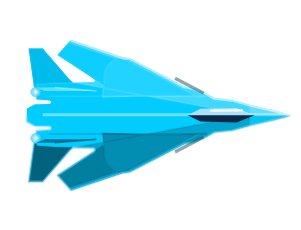
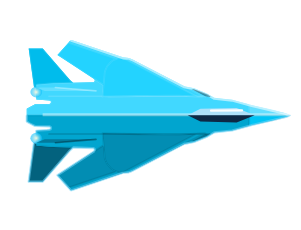
flytunl.ch ship chips and hangar portraits re-rendered with the fixed top-down hull

diff --git a/flytunl-site/home.src.html b/flytunl-site/home.src.html
@@ -811,14 +811,14 @@
     </div>
     <div class="shipsel">
       <div class="ship-chips" role="tablist" aria-label="Eight Ships, Eight Feels">
-        <button class="ship-chip" type="button" role="tab" id="chip-PEARL" aria-controls="panel-PEARL" aria-selected="true" style="--ship-color:#e8eeff"><svg viewBox="-1.109 -0.745 2.549 1.49" aria-hidden="true"><path d="M1.4 0 1.361 -0.018 1.052 -0.09 0.857 -0.144 0.689 -0.162 0.62 -0.204 0.5 -0.252 0.407 -0.27 -0.082 -0.525 -0.112 -0.537 -0.166 -0.54 -0.649 -0.705 -0.655 -0.705 -0.781 -0.564 -0.439 -0.342 -0.43 -0.327 -0.433 -0.315 -0.445 -0.309 -0.631 -0.303 -0.664 -0.33 -0.919 -0.624 -1.051 -0.624 -1.003 -0.27 -1 -0.261 -0.985 -0.258 -0.979 -0.246 -0.979 -0.147 -0.856 -0.138 -0.844 -0.132 -0.841 -0.12 -0.844 -0.111 -0.856 -0.105 -0.991 -0.102 -1.021 -0.087 -1.069 -0.06 -1.069 0 -1.069 0.06 -1.021 0.087 -0.991 0.102 -0.856 0.105 -0.844 0.111 -0.841 0.12 -0.844 0.132 -0.856 0.138 -0.979 0.147 -0.979 0.246 -0.985 0.258 -1 0.261 -1.003 0.27 -1.051 0.624 -0.919 0.624 -0.664 0.33 -0.631 0.303 -0.445 0.309 -0.433 0.315 -0.43 0.327 -0.439 0.342 -0.781 0.564 -0.655 0.705 -0.649 0.705 -0.166 0.54 -0.112 0.537 -0.082 0.525 0.407 0.27 0.5 0.252 0.62 0.204 0.689 0.162 0.857 0.144 1.052 0.09 1.361 0.018Z"/></svg><span>PEARL</span></button>
-        <button class="ship-chip" type="button" role="tab" id="chip-AMBER" aria-controls="panel-AMBER" aria-selected="false" style="--ship-color:#ffaa00"><svg viewBox="-1.109 -0.745 2.549 1.49" aria-hidden="true"><path d="M1.4 0 1.361 -0.018 1.052 -0.09 0.857 -0.144 0.689 -0.162 0.62 -0.204 0.5 -0.252 0.407 -0.27 -0.082 -0.525 -0.112 -0.537 -0.166 -0.54 -0.649 -0.705 -0.655 -0.705 -0.781 -0.564 -0.439 -0.342 -0.43 -0.327 -0.433 -0.315 -0.445 -0.309 -0.631 -0.303 -0.664 -0.33 -0.919 -0.624 -1.051 -0.624 -1.003 -0.27 -1 -0.261 -0.985 -0.258 -0.979 -0.246 -0.979 -0.147 -0.856 -0.138 -0.844 -0.132 -0.841 -0.12 -0.844 -0.111 -0.856 -0.105 -0.991 -0.102 -1.021 -0.087 -1.069 -0.06 -1.069 0 -1.069 0.06 -1.021 0.087 -0.991 0.102 -0.856 0.105 -0.844 0.111 -0.841 0.12 -0.844 0.132 -0.856 0.138 -0.979 0.147 -0.979 0.246 -0.985 0.258 -1 0.261 -1.003 0.27 -1.051 0.624 -0.919 0.624 -0.664 0.33 -0.631 0.303 -0.445 0.309 -0.433 0.315 -0.43 0.327 -0.439 0.342 -0.781 0.564 -0.655 0.705 -0.649 0.705 -0.166 0.54 -0.112 0.537 -0.082 0.525 0.407 0.27 0.5 0.252 0.62 0.204 0.689 0.162 0.857 0.144 1.052 0.09 1.361 0.018Z"/></svg><span>AMBER</span></button>
-        <button class="ship-chip" type="button" role="tab" id="chip-CRIMSON" aria-controls="panel-CRIMSON" aria-selected="false" style="--ship-color:#ff1a33"><svg viewBox="-1.109 -0.745 2.549 1.49" aria-hidden="true"><path d="M1.4 0 1.361 -0.018 1.052 -0.09 0.857 -0.144 0.689 -0.162 0.62 -0.204 0.5 -0.252 0.407 -0.27 -0.082 -0.525 -0.112 -0.537 -0.166 -0.54 -0.649 -0.705 -0.655 -0.705 -0.781 -0.564 -0.439 -0.342 -0.43 -0.327 -0.433 -0.315 -0.445 -0.309 -0.631 -0.303 -0.664 -0.33 -0.919 -0.624 -1.051 -0.624 -1.003 -0.27 -1 -0.261 -0.985 -0.258 -0.979 -0.246 -0.979 -0.147 -0.856 -0.138 -0.844 -0.132 -0.841 -0.12 -0.844 -0.111 -0.856 -0.105 -0.991 -0.102 -1.021 -0.087 -1.069 -0.06 -1.069 0 -1.069 0.06 -1.021 0.087 -0.991 0.102 -0.856 0.105 -0.844 0.111 -0.841 0.12 -0.844 0.132 -0.856 0.138 -0.979 0.147 -0.979 0.246 -0.985 0.258 -1 0.261 -1.003 0.27 -1.051 0.624 -0.919 0.624 -0.664 0.33 -0.631 0.303 -0.445 0.309 -0.433 0.315 -0.43 0.327 -0.439 0.342 -0.781 0.564 -0.655 0.705 -0.649 0.705 -0.166 0.54 -0.112 0.537 -0.082 0.525 0.407 0.27 0.5 0.252 0.62 0.204 0.689 0.162 0.857 0.144 1.052 0.09 1.361 0.018Z"/></svg><span>CRIMSON</span></button>
-        <button class="ship-chip" type="button" role="tab" id="chip-ELECTRIC" aria-controls="panel-ELECTRIC" aria-selected="false" style="--ship-color:#00ccff"><svg viewBox="-1.109 -0.745 2.549 1.49" aria-hidden="true"><path d="M1.4 0 1.361 -0.018 1.052 -0.09 0.857 -0.144 0.689 -0.162 0.62 -0.204 0.5 -0.252 0.407 -0.27 -0.082 -0.525 -0.112 -0.537 -0.166 -0.54 -0.649 -0.705 -0.655 -0.705 -0.781 -0.564 -0.439 -0.342 -0.43 -0.327 -0.433 -0.315 -0.445 -0.309 -0.631 -0.303 -0.664 -0.33 -0.919 -0.624 -1.051 -0.624 -1.003 -0.27 -1 -0.261 -0.985 -0.258 -0.979 -0.246 -0.979 -0.147 -0.856 -0.138 -0.844 -0.132 -0.841 -0.12 -0.844 -0.111 -0.856 -0.105 -0.991 -0.102 -1.021 -0.087 -1.069 -0.06 -1.069 0 -1.069 0.06 -1.021 0.087 -0.991 0.102 -0.856 0.105 -0.844 0.111 -0.841 0.12 -0.844 0.132 -0.856 0.138 -0.979 0.147 -0.979 0.246 -0.985 0.258 -1 0.261 -1.003 0.27 -1.051 0.624 -0.919 0.624 -0.664 0.33 -0.631 0.303 -0.445 0.309 -0.433 0.315 -0.43 0.327 -0.439 0.342 -0.781 0.564 -0.655 0.705 -0.649 0.705 -0.166 0.54 -0.112 0.537 -0.082 0.525 0.407 0.27 0.5 0.252 0.62 0.204 0.689 0.162 0.857 0.144 1.052 0.09 1.361 0.018Z"/></svg><span>ELECTRIC</span></button>
-        <button class="ship-chip" type="button" role="tab" id="chip-TOXIC" aria-controls="panel-TOXIC" aria-selected="false" style="--ship-color:#99ff00"><svg viewBox="-1.109 -0.745 2.549 1.49" aria-hidden="true"><path d="M1.4 0 1.361 -0.018 1.052 -0.09 0.857 -0.144 0.689 -0.162 0.62 -0.204 0.5 -0.252 0.407 -0.27 -0.082 -0.525 -0.112 -0.537 -0.166 -0.54 -0.649 -0.705 -0.655 -0.705 -0.781 -0.564 -0.439 -0.342 -0.43 -0.327 -0.433 -0.315 -0.445 -0.309 -0.631 -0.303 -0.664 -0.33 -0.919 -0.624 -1.051 -0.624 -1.003 -0.27 -1 -0.261 -0.985 -0.258 -0.979 -0.246 -0.979 -0.147 -0.856 -0.138 -0.844 -0.132 -0.841 -0.12 -0.844 -0.111 -0.856 -0.105 -0.991 -0.102 -1.021 -0.087 -1.069 -0.06 -1.069 0 -1.069 0.06 -1.021 0.087 -0.991 0.102 -0.856 0.105 -0.844 0.111 -0.841 0.12 -0.844 0.132 -0.856 0.138 -0.979 0.147 -0.979 0.246 -0.985 0.258 -1 0.261 -1.003 0.27 -1.051 0.624 -0.919 0.624 -0.664 0.33 -0.631 0.303 -0.445 0.309 -0.433 0.315 -0.43 0.327 -0.439 0.342 -0.781 0.564 -0.655 0.705 -0.649 0.705 -0.166 0.54 -0.112 0.537 -0.082 0.525 0.407 0.27 0.5 0.252 0.62 0.204 0.689 0.162 0.857 0.144 1.052 0.09 1.361 0.018Z"/></svg><span>TOXIC</span></button>
-        <button class="ship-chip" type="button" role="tab" id="chip-VOID" aria-controls="panel-VOID" aria-selected="false" style="--ship-color:#c080ff"><svg viewBox="-1.109 -0.745 2.549 1.49" aria-hidden="true"><path d="M1.4 0 1.361 -0.018 1.052 -0.09 0.857 -0.144 0.689 -0.162 0.62 -0.204 0.5 -0.252 0.407 -0.27 -0.082 -0.525 -0.112 -0.537 -0.166 -0.54 -0.649 -0.705 -0.655 -0.705 -0.781 -0.564 -0.439 -0.342 -0.43 -0.327 -0.433 -0.315 -0.445 -0.309 -0.631 -0.303 -0.664 -0.33 -0.919 -0.624 -1.051 -0.624 -1.003 -0.27 -1 -0.261 -0.985 -0.258 -0.979 -0.246 -0.979 -0.147 -0.856 -0.138 -0.844 -0.132 -0.841 -0.12 -0.844 -0.111 -0.856 -0.105 -0.991 -0.102 -1.021 -0.087 -1.069 -0.06 -1.069 0 -1.069 0.06 -1.021 0.087 -0.991 0.102 -0.856 0.105 -0.844 0.111 -0.841 0.12 -0.844 0.132 -0.856 0.138 -0.979 0.147 -0.979 0.246 -0.985 0.258 -1 0.261 -1.003 0.27 -1.051 0.624 -0.919 0.624 -0.664 0.33 -0.631 0.303 -0.445 0.309 -0.433 0.315 -0.43 0.327 -0.439 0.342 -0.781 0.564 -0.655 0.705 -0.649 0.705 -0.166 0.54 -0.112 0.537 -0.082 0.525 0.407 0.27 0.5 0.252 0.62 0.204 0.689 0.162 0.857 0.144 1.052 0.09 1.361 0.018Z"/></svg><span>VOID</span></button>
-        <button class="ship-chip" type="button" role="tab" id="chip-NOVA" aria-controls="panel-NOVA" aria-selected="false" style="--ship-color:#ffffff"><svg viewBox="-1.109 -0.745 2.549 1.49" aria-hidden="true"><path d="M1.4 0 1.361 -0.018 1.052 -0.09 0.857 -0.144 0.689 -0.162 0.62 -0.204 0.5 -0.252 0.407 -0.27 -0.082 -0.525 -0.112 -0.537 -0.166 -0.54 -0.649 -0.705 -0.655 -0.705 -0.781 -0.564 -0.439 -0.342 -0.43 -0.327 -0.433 -0.315 -0.445 -0.309 -0.631 -0.303 -0.664 -0.33 -0.919 -0.624 -1.051 -0.624 -1.003 -0.27 -1 -0.261 -0.985 -0.258 -0.979 -0.246 -0.979 -0.147 -0.856 -0.138 -0.844 -0.132 -0.841 -0.12 -0.844 -0.111 -0.856 -0.105 -0.991 -0.102 -1.021 -0.087 -1.069 -0.06 -1.069 0 -1.069 0.06 -1.021 0.087 -0.991 0.102 -0.856 0.105 -0.844 0.111 -0.841 0.12 -0.844 0.132 -0.856 0.138 -0.979 0.147 -0.979 0.246 -0.985 0.258 -1 0.261 -1.003 0.27 -1.051 0.624 -0.919 0.624 -0.664 0.33 -0.631 0.303 -0.445 0.309 -0.433 0.315 -0.43 0.327 -0.439 0.342 -0.781 0.564 -0.655 0.705 -0.649 0.705 -0.166 0.54 -0.112 0.537 -0.082 0.525 0.407 0.27 0.5 0.252 0.62 0.204 0.689 0.162 0.857 0.144 1.052 0.09 1.361 0.018Z"/></svg><span>NOVA</span></button>
-        <button class="ship-chip" type="button" role="tab" id="chip-SOLARIS" aria-controls="panel-SOLARIS" aria-selected="false" style="--ship-color:#ff6600"><svg viewBox="-1.109 -0.745 2.549 1.49" aria-hidden="true"><path d="M1.4 0 1.361 -0.018 1.052 -0.09 0.857 -0.144 0.689 -0.162 0.62 -0.204 0.5 -0.252 0.407 -0.27 -0.082 -0.525 -0.112 -0.537 -0.166 -0.54 -0.649 -0.705 -0.655 -0.705 -0.781 -0.564 -0.439 -0.342 -0.43 -0.327 -0.433 -0.315 -0.445 -0.309 -0.631 -0.303 -0.664 -0.33 -0.919 -0.624 -1.051 -0.624 -1.003 -0.27 -1 -0.261 -0.985 -0.258 -0.979 -0.246 -0.979 -0.147 -0.856 -0.138 -0.844 -0.132 -0.841 -0.12 -0.844 -0.111 -0.856 -0.105 -0.991 -0.102 -1.021 -0.087 -1.069 -0.06 -1.069 0 -1.069 0.06 -1.021 0.087 -0.991 0.102 -0.856 0.105 -0.844 0.111 -0.841 0.12 -0.844 0.132 -0.856 0.138 -0.979 0.147 -0.979 0.246 -0.985 0.258 -1 0.261 -1.003 0.27 -1.051 0.624 -0.919 0.624 -0.664 0.33 -0.631 0.303 -0.445 0.309 -0.433 0.315 -0.43 0.327 -0.439 0.342 -0.781 0.564 -0.655 0.705 -0.649 0.705 -0.166 0.54 -0.112 0.537 -0.082 0.525 0.407 0.27 0.5 0.252 0.62 0.204 0.689 0.162 0.857 0.144 1.052 0.09 1.361 0.018Z"/></svg><span>SOLARIS</span></button>
+        <button class="ship-chip" type="button" role="tab" id="chip-PEARL" aria-controls="panel-PEARL" aria-selected="true" style="--ship-color:#e8eeff"><svg viewBox="-1.109 -0.745 2.549 1.49" aria-hidden="true"><path d="M1.4 0 1.361 -0.018 1.052 -0.09 0.857 -0.144 0.689 -0.162 0.62 -0.204 0.5 -0.252 0.407 -0.27 -0.082 -0.525 -0.112 -0.537 -0.166 -0.54 -0.649 -0.705 -0.655 -0.705 -0.781 -0.564 -0.439 -0.342 -0.43 -0.327 -0.433 -0.315 -0.445 -0.309 -0.631 -0.303 -0.664 -0.33 -0.919 -0.624 -1.051 -0.624 -1.003 -0.27 -1 -0.261 -0.985 -0.258 -0.979 -0.246 -0.979 -0.147 -0.856 -0.138 -0.844 -0.132 -0.841 -0.12 -0.844 -0.111 -0.856 -0.105 -0.991 -0.102 -1.045 -0.075 -1.069 -0.06 -1.069 0 -1.069 0.06 -1.045 0.075 -0.991 0.102 -0.856 0.105 -0.844 0.111 -0.841 0.12 -0.844 0.132 -0.856 0.138 -0.979 0.147 -0.979 0.246 -0.985 0.258 -1 0.261 -1.003 0.27 -1.051 0.624 -0.919 0.624 -0.664 0.33 -0.631 0.303 -0.445 0.309 -0.433 0.315 -0.43 0.327 -0.439 0.342 -0.781 0.564 -0.655 0.705 -0.649 0.705 -0.166 0.54 -0.112 0.537 -0.082 0.525 0.407 0.27 0.5 0.252 0.62 0.204 0.689 0.162 0.857 0.144 1.052 0.09 1.361 0.018Z"/></svg><span>PEARL</span></button>
+        <button class="ship-chip" type="button" role="tab" id="chip-AMBER" aria-controls="panel-AMBER" aria-selected="false" style="--ship-color:#ffaa00"><svg viewBox="-1.109 -0.745 2.549 1.49" aria-hidden="true"><path d="M1.4 0 1.361 -0.018 1.052 -0.09 0.857 -0.144 0.689 -0.162 0.62 -0.204 0.5 -0.252 0.407 -0.27 -0.082 -0.525 -0.112 -0.537 -0.166 -0.54 -0.649 -0.705 -0.655 -0.705 -0.781 -0.564 -0.439 -0.342 -0.43 -0.327 -0.433 -0.315 -0.445 -0.309 -0.631 -0.303 -0.664 -0.33 -0.919 -0.624 -1.051 -0.624 -1.003 -0.27 -1 -0.261 -0.985 -0.258 -0.979 -0.246 -0.979 -0.147 -0.856 -0.138 -0.844 -0.132 -0.841 -0.12 -0.844 -0.111 -0.856 -0.105 -0.991 -0.102 -1.045 -0.075 -1.069 -0.06 -1.069 0 -1.069 0.06 -1.045 0.075 -0.991 0.102 -0.856 0.105 -0.844 0.111 -0.841 0.12 -0.844 0.132 -0.856 0.138 -0.979 0.147 -0.979 0.246 -0.985 0.258 -1 0.261 -1.003 0.27 -1.051 0.624 -0.919 0.624 -0.664 0.33 -0.631 0.303 -0.445 0.309 -0.433 0.315 -0.43 0.327 -0.439 0.342 -0.781 0.564 -0.655 0.705 -0.649 0.705 -0.166 0.54 -0.112 0.537 -0.082 0.525 0.407 0.27 0.5 0.252 0.62 0.204 0.689 0.162 0.857 0.144 1.052 0.09 1.361 0.018Z"/></svg><span>AMBER</span></button>
+        <button class="ship-chip" type="button" role="tab" id="chip-CRIMSON" aria-controls="panel-CRIMSON" aria-selected="false" style="--ship-color:#ff1a33"><svg viewBox="-1.109 -0.745 2.549 1.49" aria-hidden="true"><path d="M1.4 0 1.361 -0.018 1.052 -0.09 0.857 -0.144 0.689 -0.162 0.62 -0.204 0.5 -0.252 0.407 -0.27 -0.082 -0.525 -0.112 -0.537 -0.166 -0.54 -0.649 -0.705 -0.655 -0.705 -0.781 -0.564 -0.439 -0.342 -0.43 -0.327 -0.433 -0.315 -0.445 -0.309 -0.631 -0.303 -0.664 -0.33 -0.919 -0.624 -1.051 -0.624 -1.003 -0.27 -1 -0.261 -0.985 -0.258 -0.979 -0.246 -0.979 -0.147 -0.856 -0.138 -0.844 -0.132 -0.841 -0.12 -0.844 -0.111 -0.856 -0.105 -0.991 -0.102 -1.045 -0.075 -1.069 -0.06 -1.069 0 -1.069 0.06 -1.045 0.075 -0.991 0.102 -0.856 0.105 -0.844 0.111 -0.841 0.12 -0.844 0.132 -0.856 0.138 -0.979 0.147 -0.979 0.246 -0.985 0.258 -1 0.261 -1.003 0.27 -1.051 0.624 -0.919 0.624 -0.664 0.33 -0.631 0.303 -0.445 0.309 -0.433 0.315 -0.43 0.327 -0.439 0.342 -0.781 0.564 -0.655 0.705 -0.649 0.705 -0.166 0.54 -0.112 0.537 -0.082 0.525 0.407 0.27 0.5 0.252 0.62 0.204 0.689 0.162 0.857 0.144 1.052 0.09 1.361 0.018Z"/></svg><span>CRIMSON</span></button>
+        <button class="ship-chip" type="button" role="tab" id="chip-ELECTRIC" aria-controls="panel-ELECTRIC" aria-selected="false" style="--ship-color:#00ccff"><svg viewBox="-1.109 -0.745 2.549 1.49" aria-hidden="true"><path d="M1.4 0 1.361 -0.018 1.052 -0.09 0.857 -0.144 0.689 -0.162 0.62 -0.204 0.5 -0.252 0.407 -0.27 -0.082 -0.525 -0.112 -0.537 -0.166 -0.54 -0.649 -0.705 -0.655 -0.705 -0.781 -0.564 -0.439 -0.342 -0.43 -0.327 -0.433 -0.315 -0.445 -0.309 -0.631 -0.303 -0.664 -0.33 -0.919 -0.624 -1.051 -0.624 -1.003 -0.27 -1 -0.261 -0.985 -0.258 -0.979 -0.246 -0.979 -0.147 -0.856 -0.138 -0.844 -0.132 -0.841 -0.12 -0.844 -0.111 -0.856 -0.105 -0.991 -0.102 -1.045 -0.075 -1.069 -0.06 -1.069 0 -1.069 0.06 -1.045 0.075 -0.991 0.102 -0.856 0.105 -0.844 0.111 -0.841 0.12 -0.844 0.132 -0.856 0.138 -0.979 0.147 -0.979 0.246 -0.985 0.258 -1 0.261 -1.003 0.27 -1.051 0.624 -0.919 0.624 -0.664 0.33 -0.631 0.303 -0.445 0.309 -0.433 0.315 -0.43 0.327 -0.439 0.342 -0.781 0.564 -0.655 0.705 -0.649 0.705 -0.166 0.54 -0.112 0.537 -0.082 0.525 0.407 0.27 0.5 0.252 0.62 0.204 0.689 0.162 0.857 0.144 1.052 0.09 1.361 0.018Z"/></svg><span>ELECTRIC</span></button>
+        <button class="ship-chip" type="button" role="tab" id="chip-TOXIC" aria-controls="panel-TOXIC" aria-selected="false" style="--ship-color:#99ff00"><svg viewBox="-1.109 -0.745 2.549 1.49" aria-hidden="true"><path d="M1.4 0 1.361 -0.018 1.052 -0.09 0.857 -0.144 0.689 -0.162 0.62 -0.204 0.5 -0.252 0.407 -0.27 -0.082 -0.525 -0.112 -0.537 -0.166 -0.54 -0.649 -0.705 -0.655 -0.705 -0.781 -0.564 -0.439 -0.342 -0.43 -0.327 -0.433 -0.315 -0.445 -0.309 -0.631 -0.303 -0.664 -0.33 -0.919 -0.624 -1.051 -0.624 -1.003 -0.27 -1 -0.261 -0.985 -0.258 -0.979 -0.246 -0.979 -0.147 -0.856 -0.138 -0.844 -0.132 -0.841 -0.12 -0.844 -0.111 -0.856 -0.105 -0.991 -0.102 -1.045 -0.075 -1.069 -0.06 -1.069 0 -1.069 0.06 -1.045 0.075 -0.991 0.102 -0.856 0.105 -0.844 0.111 -0.841 0.12 -0.844 0.132 -0.856 0.138 -0.979 0.147 -0.979 0.246 -0.985 0.258 -1 0.261 -1.003 0.27 -1.051 0.624 -0.919 0.624 -0.664 0.33 -0.631 0.303 -0.445 0.309 -0.433 0.315 -0.43 0.327 -0.439 0.342 -0.781 0.564 -0.655 0.705 -0.649 0.705 -0.166 0.54 -0.112 0.537 -0.082 0.525 0.407 0.27 0.5 0.252 0.62 0.204 0.689 0.162 0.857 0.144 1.052 0.09 1.361 0.018Z"/></svg><span>TOXIC</span></button>
+        <button class="ship-chip" type="button" role="tab" id="chip-VOID" aria-controls="panel-VOID" aria-selected="false" style="--ship-color:#c080ff"><svg viewBox="-1.109 -0.745 2.549 1.49" aria-hidden="true"><path d="M1.4 0 1.361 -0.018 1.052 -0.09 0.857 -0.144 0.689 -0.162 0.62 -0.204 0.5 -0.252 0.407 -0.27 -0.082 -0.525 -0.112 -0.537 -0.166 -0.54 -0.649 -0.705 -0.655 -0.705 -0.781 -0.564 -0.439 -0.342 -0.43 -0.327 -0.433 -0.315 -0.445 -0.309 -0.631 -0.303 -0.664 -0.33 -0.919 -0.624 -1.051 -0.624 -1.003 -0.27 -1 -0.261 -0.985 -0.258 -0.979 -0.246 -0.979 -0.147 -0.856 -0.138 -0.844 -0.132 -0.841 -0.12 -0.844 -0.111 -0.856 -0.105 -0.991 -0.102 -1.045 -0.075 -1.069 -0.06 -1.069 0 -1.069 0.06 -1.045 0.075 -0.991 0.102 -0.856 0.105 -0.844 0.111 -0.841 0.12 -0.844 0.132 -0.856 0.138 -0.979 0.147 -0.979 0.246 -0.985 0.258 -1 0.261 -1.003 0.27 -1.051 0.624 -0.919 0.624 -0.664 0.33 -0.631 0.303 -0.445 0.309 -0.433 0.315 -0.43 0.327 -0.439 0.342 -0.781 0.564 -0.655 0.705 -0.649 0.705 -0.166 0.54 -0.112 0.537 -0.082 0.525 0.407 0.27 0.5 0.252 0.62 0.204 0.689 0.162 0.857 0.144 1.052 0.09 1.361 0.018Z"/></svg><span>VOID</span></button>
+        <button class="ship-chip" type="button" role="tab" id="chip-NOVA" aria-controls="panel-NOVA" aria-selected="false" style="--ship-color:#ffffff"><svg viewBox="-1.109 -0.745 2.549 1.49" aria-hidden="true"><path d="M1.4 0 1.361 -0.018 1.052 -0.09 0.857 -0.144 0.689 -0.162 0.62 -0.204 0.5 -0.252 0.407 -0.27 -0.082 -0.525 -0.112 -0.537 -0.166 -0.54 -0.649 -0.705 -0.655 -0.705 -0.781 -0.564 -0.439 -0.342 -0.43 -0.327 -0.433 -0.315 -0.445 -0.309 -0.631 -0.303 -0.664 -0.33 -0.919 -0.624 -1.051 -0.624 -1.003 -0.27 -1 -0.261 -0.985 -0.258 -0.979 -0.246 -0.979 -0.147 -0.856 -0.138 -0.844 -0.132 -0.841 -0.12 -0.844 -0.111 -0.856 -0.105 -0.991 -0.102 -1.045 -0.075 -1.069 -0.06 -1.069 0 -1.069 0.06 -1.045 0.075 -0.991 0.102 -0.856 0.105 -0.844 0.111 -0.841 0.12 -0.844 0.132 -0.856 0.138 -0.979 0.147 -0.979 0.246 -0.985 0.258 -1 0.261 -1.003 0.27 -1.051 0.624 -0.919 0.624 -0.664 0.33 -0.631 0.303 -0.445 0.309 -0.433 0.315 -0.43 0.327 -0.439 0.342 -0.781 0.564 -0.655 0.705 -0.649 0.705 -0.166 0.54 -0.112 0.537 -0.082 0.525 0.407 0.27 0.5 0.252 0.62 0.204 0.689 0.162 0.857 0.144 1.052 0.09 1.361 0.018Z"/></svg><span>NOVA</span></button>
+        <button class="ship-chip" type="button" role="tab" id="chip-SOLARIS" aria-controls="panel-SOLARIS" aria-selected="false" style="--ship-color:#ff6600"><svg viewBox="-1.109 -0.745 2.549 1.49" aria-hidden="true"><path d="M1.4 0 1.361 -0.018 1.052 -0.09 0.857 -0.144 0.689 -0.162 0.62 -0.204 0.5 -0.252 0.407 -0.27 -0.082 -0.525 -0.112 -0.537 -0.166 -0.54 -0.649 -0.705 -0.655 -0.705 -0.781 -0.564 -0.439 -0.342 -0.43 -0.327 -0.433 -0.315 -0.445 -0.309 -0.631 -0.303 -0.664 -0.33 -0.919 -0.624 -1.051 -0.624 -1.003 -0.27 -1 -0.261 -0.985 -0.258 -0.979 -0.246 -0.979 -0.147 -0.856 -0.138 -0.844 -0.132 -0.841 -0.12 -0.844 -0.111 -0.856 -0.105 -0.991 -0.102 -1.045 -0.075 -1.069 -0.06 -1.069 0 -1.069 0.06 -1.045 0.075 -0.991 0.102 -0.856 0.105 -0.844 0.111 -0.841 0.12 -0.844 0.132 -0.856 0.138 -0.979 0.147 -0.979 0.246 -0.985 0.258 -1 0.261 -1.003 0.27 -1.051 0.624 -0.919 0.624 -0.664 0.33 -0.631 0.303 -0.445 0.309 -0.433 0.315 -0.43 0.327 -0.439 0.342 -0.781 0.564 -0.655 0.705 -0.649 0.705 -0.166 0.54 -0.112 0.537 -0.082 0.525 0.407 0.27 0.5 0.252 0.62 0.204 0.689 0.162 0.857 0.144 1.052 0.09 1.361 0.018Z"/></svg><span>SOLARIS</span></button>
       </div>
       <div class="ship-stage">
         <div class="ship-panel" role="tabpanel" id="panel-PEARL" aria-labelledby="chip-PEARL" style="--ship-color:#e8eeff">
